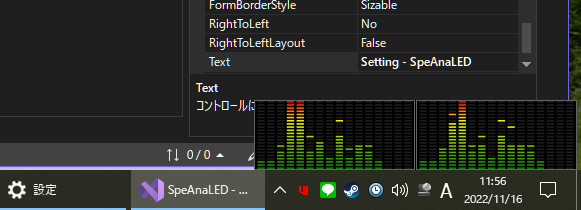
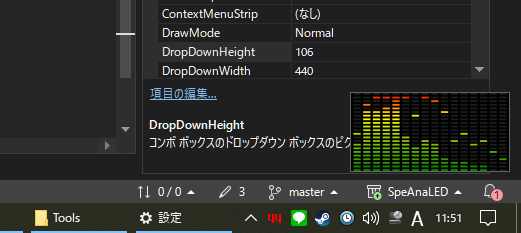
Pre-release. Fixed start-up color scheme, frequency in  mono mode bugs, enbuged in previous clean-up.

diff --git a/SpeAnaLED/Analyzer.cs b/SpeAnaLED/Analyzer.cs
@@ -21,14 +21,14 @@ namespace SpeAnaLED
         public List<byte> _spectrumdata;                // spectrum data buffer
         public readonly DispatcherTimer _timer1;        // timer that refreshes the display
         private BASSData _DATAFLAG;                     // for "interreave" format
-        private readonly  BASSData _DATAFLAG_8192;      // for Hi-Reso
-        private readonly BASSData _DATAFLAG_16384;      // for Hi-Reso
+        private BASSData _DATAFLAG_8192;                // for Hi-Reso
+        private BASSData _DATAFLAG_16384;               // for Hi-Reso
         public int _devicenumber;
         private readonly bool _UNICODE;                 // codepage switch
         public readonly ComboBox _devicelist;           // for subscribe
         private readonly Button _form2EnumButton;       // for subscribe
         private readonly Button _form2DeviceResetButton;// for subscribe
-        private readonly ComboBox _form2NumberOfBars;   // for subscribe
+        private readonly ComboBox _form2NumberOfBarsComboBox;   // for subscribe
         private readonly RadioButton _form2MonoRadio;   // for subscribe
         private readonly Label _form2FreqLabel;
         public event EventHandler SpectrumChanged;      // for fire
@@ -41,15 +41,15 @@ namespace SpeAnaLED
         public int _channel;                            // 1: "mix-data"(mono) 2: L+R
         private int _lines;                             // default number of spectrum lines
 
-        public Analyzer(ComboBox devicelist, Button enumButton, Button deviceResetButton, ComboBox numberofbars, RadioButton monoRadio, Label freqLabel)    // Control data for event subscribe
+        public Analyzer(ComboBox devicelist, Button enumButton, Button deviceResetButton, ComboBox numberOfbarsComboBox, RadioButton monoRadio, Label freqLabel)    // Control data for event subscribe
         {
             _devicelist = devicelist;
             _form2EnumButton = enumButton;
             _form2DeviceResetButton = deviceResetButton;
-            _form2NumberOfBars = numberofbars;
+            _form2NumberOfBarsComboBox = numberOfbarsComboBox;
             _form2MonoRadio = monoRadio;
+            _channel = _form2MonoRadio.Checked ? 1 : 2;
             _form2FreqLabel = freqLabel;
-            _channel = monoRadio.Checked ? 1 : 2;
             _fft = new float[16384 * _channel];
             _initialized = false;
             _process = new WASAPIPROC(Process);
@@ -61,15 +61,15 @@ namespace SpeAnaLED
             _devicenumber = Form1.DeviceNumber();
             _DATAFLAG_8192 = _channel > 1 ? BASSData.BASS_DATA_FFT16384 | BASSData.BASS_DATA_FFT_INDIVIDUAL : BASSData.BASS_DATA_FFT8192;
             _DATAFLAG_16384 = _channel > 1 ? BASSData.BASS_DATA_FFT32768 | BASSData.BASS_DATA_FFT_INDIVIDUAL : BASSData.BASS_DATA_FFT16384;
-            _lines = Convert.ToInt16(_form2NumberOfBars.SelectedItem);
+            _lines = Convert.ToInt16(_form2NumberOfBarsComboBox.SelectedItem);
             _UNICODE = Form1.Unicode();
 
             // Event handler for option form (reseive)
-            //_form2EnumButton.Click += new EventHandler(Form2_EnumerateButton_Clicked);
-            //_form2DeviceResetButton.Click += new EventHandler(Form2_devicelist_SelectedIndexChanged);
-            _form2NumberOfBars.SelectedIndexChanged += new EventHandler(Form2_NumberOfBarIndexChanged);
-            _form2MonoRadio.CheckedChanged += new EventHandler(Form2_MonoRadio_CheckChanged);
+            _form2EnumButton.Click += new EventHandler(Form2_EnumerateButton_Clicked);
+            _form2DeviceResetButton.Click += new EventHandler(Form2_devicelist_SelectedIndexChanged);
             _devicelist.SelectedIndexChanged += new EventHandler(Form2_devicelist_SelectedIndexChanged);
+            _form2NumberOfBarsComboBox.SelectedIndexChanged += new EventHandler(Form2_NumberOfBarIndexChanged);
+            _form2MonoRadio.CheckedChanged += new EventHandler(Form2_MonoRadio_CheckChanged);
 
             Init();
         }
@@ -171,11 +171,11 @@ namespace SpeAnaLED
                 float[] peak = new float[] { 0f, 0f };      // 0=Left(mono), 1=Right
 
                 if (_channel > 1)
-                    freqValue = (int)(Math.Pow(2, (bandX * 10.0 / (_lines - 1)) + _freqShift) * _mixfreqMulti);
+                    freqValue = (int)(Math.Pow(2, (bandX * 10.0 / (_lines - 1)) + _freqShift)  * _mixfreqMulti);
                 else
-                    freqValue = (int)(Math.Pow(2, bandX * 10.0 / (_lines - 1) + _freqShift) / 4 * _mixfreqMulti);   // I don't know why 4...
-
-                if (freqValue <= fftPos) freqValue = fftPos + 1;                                            // if out of range, min. freq. selected
+                    freqValue = (int)(Math.Pow(2, (bandX * 10.0 / (_lines - 1)) + _freqShift) / 5 * _mixfreqMulti);   // I don't know why 5...
+                                                                                                                      // denominator lager -> shift right
+                if (freqValue <= fftPos) freqValue = fftPos + 1;                            // if out of range, min. freq. selected
                 if (_mixfreq > 96000)
                 {
                     if (freqValue > 16384 * _channel - _channel) freqValue = 16384 * _channel - _channel;
@@ -211,12 +211,12 @@ namespace SpeAnaLED
 
         private void Form2_NumberOfBarIndexChanged(object sender, EventArgs e)
         {
-            _lines = Convert.ToInt16(_form2NumberOfBars.SelectedItem);
+            _lines = Convert.ToInt16(_form2NumberOfBarsComboBox.SelectedItem);
         }
 
         private void Form2_EnumerateButton_Clicked(object sender, EventArgs e)
         {
-            _devicelist.Enabled = false;
+            //_devicelist.Enabled = false;      // loop below is too heavey...
             _form2DeviceResetButton.Enabled = false;
             _form2EnumButton.Enabled = false;
 
@@ -251,7 +251,7 @@ namespace SpeAnaLED
 
                 _form2DeviceResetButton.Enabled = false;
                 _form2EnumButton.Enabled = false;
-                _devicelist.Enabled = false;
+                //_devicelist.Enabled = false;
 
                 _initialized = false;
                 Enable = false;
@@ -298,7 +298,11 @@ namespace SpeAnaLED
             _channel = _form2MonoRadio.Checked ? 1 : 2;
             _fft.Initialize();
             _fft = new float[16384 * _channel];
-            _DATAFLAG = _channel > 1 ? _DATAFLAG_16384 : _DATAFLAG_8192;
+
+            //_DATAFLAG = _channel > 1 ? _DATAFLAG_16384 : _DATAFLAG_8192;
+            _DATAFLAG_8192 = _channel > 1 ? BASSData.BASS_DATA_FFT16384 | BASSData.BASS_DATA_FFT_INDIVIDUAL : BASSData.BASS_DATA_FFT8192;
+            _DATAFLAG_16384 = _channel > 1 ? BASSData.BASS_DATA_FFT32768 | BASSData.BASS_DATA_FFT_INDIVIDUAL : BASSData.BASS_DATA_FFT16384;
+            _DATAFLAG = _mixfreq > 96000 ? _DATAFLAG_16384 : _DATAFLAG_8192;
 
             bool result = Bass.BASS_Init(0, _mixfreq, BASSInit.BASS_DEVICE_DEFAULT, IntPtr.Zero);
             if (!result) throw new Exception("Source Device Initialize Error");

diff --git a/SpeAnaLED/Form1.cs b/SpeAnaLED/Form1.cs
@@ -134,7 +134,7 @@ namespace SpeAnaLED
             form2.devicelist.SelectedIndex = 0;
 
             // after param load, make a Analyzer instance.
-            analyzer = new Analyzer(form2.devicelist, form2.EnumerateButton, form2.DeviceResetButton, form2.NumberOfBarComboBox, form2.MonoRadio,form2.FrequencyLabel);
+            analyzer = new Analyzer(form2.devicelist, form2.EnumerateButton, form2.DeviceResetButton, form2.NumberOfBarComboBox, form2.MonoRadio, form2.FrequencyLabel);
 
             if (devices == null || devices == string.Empty)
             {
@@ -149,7 +149,7 @@ namespace SpeAnaLED
             else
             {
                 analyzer.Enable = true;
-                // analyzer.DisplayEnable = true;       // do nothing
+                // analyzer.DisplayEnable = true;       // do nothing in DisplayEnable
             }
 
             // Event handler for modeless option form (subscribe)
@@ -191,21 +191,14 @@ namespace SpeAnaLED
             peakValue = new int[maxNumberOfBar * channel];
             endPointY = baseSpectrumHeight;
             bgPen = new Pen(Color.FromArgb(29, 29, 29), penWidth) { DashPattern = new float[] { 0.1f, 0.1f } };
-            
+
             // default hold time. I don't know why "* cycleMultiplyer * (number..." is necessary. This is due to actual measurements.
             counterCycle = (int)(peakHoldTimeMsec / analyzer._timer1.Interval.Milliseconds * cycleMultiplyer * (numberOfBar * channel / 16.0));
-            
+
             //for (int i = 0; i < channel; i++) canvas[i] = new Bitmap(baseSpectrumWidth, baseSpectrumHeight);
             for (int i = 0; i < maxNumberOfBar; i++) freqLabel_Left[i] = new Label();
             for (int i = 0; i < maxNumberOfBar; i++) freqLabel_Right[i] = new Label();
             
-            // set default color pen
-            colors = prisumColors;
-            positions = prisumPositions[numberOfBar];
-            brush = new LinearGradientBrush(new Point(0, 0), new Point(endPointX, endPointY), Color.FromArgb(255, 0, 0), Color.FromArgb(0, 0, 255))
-                { InterpolationColors = new ColorBlend() { Colors = colors, Positions = positions } };
-            myPen = new Pen(brush, penWidth) { DashPattern = new float[] { 0.1f, 0.1f } };
-
             // form2 setting
             form2.NumberOfBarComboBox.SelectedIndex = form2.NumberOfBarComboBox.Items.IndexOf(numberOfBar.ToString());
             form2.PeakholdTimeComboBox.SelectedIndex = form2.PeakholdTimeComboBox.Items.IndexOf(peakHoldTimeMsec.ToString());
@@ -230,6 +223,7 @@ namespace SpeAnaLED
                 LabelCycle.Visible = true;
             else
                 LabelCycle.Visible = false;
+            
             if ((form2.PrisumRadio.Checked = prisumChecked) == true)
             {
                 colors = prisumColors;
@@ -259,12 +253,15 @@ namespace SpeAnaLED
                 endPointX = barLeftPadding + numberOfBar * ((int)bgPen.Width + barSpacing) - barSpacing;    // Horizontal
                 endPointY = 0;
             }
+            // set Gradient color pen
             if (!form2.RainbowRadio.Checked)
                 brush = new LinearGradientBrush(new Point(0, 0), new Point(endPointX, endPointY), Color.FromArgb(255, 0, 0), Color.FromArgb(0, 0, 255))
                     { InterpolationColors = new ColorBlend() { Colors = colors, Positions = positions } };
             else
                 brush = new LinearGradientBrush(new Point(endPointX, endPointY), new Point(0, 0), Color.FromArgb(255, 0, 0), Color.FromArgb(0, 0, 255))
                     { InterpolationColors = new ColorBlend() { Colors = colors, Positions = positions } };
+            myPen = new Pen(brush, penWidth) { DashPattern = new float[] { 0.1f, 0.1f } };
+
             if (form2.LeftFlipRadio.Checked)
             {
                 flipLeft = RotateFlipType.RotateNoneFlipX;
@@ -981,7 +978,7 @@ namespace SpeAnaLED
             //spectrumHeightScale = (float)Spectrum1.Height / baseSpectrumHeight;
             float labelFontSize = (float)Math.Round(baseLabelFontSize * spectrumWidthScale, 1);
             labelFontSize = labelFontSize < 11f ? labelFontSize : 11f;
-            labelFontSize = labelFontSize > 7f ? labelFontSize : 7f;
+            labelFontSize = labelFontSize > 6f ? labelFontSize : 6f;
 
             for (int i = 0; i < maxNumberOfBar; i++)
             {

diff --git a/SpeAnaLED/Form2.Designer.cs b/SpeAnaLED/Form2.Designer.cs
@@ -191,11 +191,11 @@
             // EnumerateButton
             // 
             this.EnumerateButton.Font = new System.Drawing.Font("Arial", 9F, System.Drawing.FontStyle.Regular, System.Drawing.GraphicsUnit.Point, ((byte)(128)));
-            this.EnumerateButton.Location = new System.Drawing.Point(567, 72);
+            this.EnumerateButton.Location = new System.Drawing.Point(530, 72);
             this.EnumerateButton.Name = "EnumerateButton";
-            this.EnumerateButton.Size = new System.Drawing.Size(75, 23);
+            this.EnumerateButton.Size = new System.Drawing.Size(112, 23);
             this.EnumerateButton.TabIndex = 39;
-            this.EnumerateButton.Text = "Enumerate";
+            this.EnumerateButton.Text = "Enumerate Devices";
             this.EnumerateButton.UseVisualStyleBackColor = true;
             this.EnumerateButton.Click += new System.EventHandler(this.EnumerateButton_Click);
             // 
@@ -267,14 +267,11 @@
             this.PeakholdTimeComboBox.Font = new System.Drawing.Font("Arial", 10F, System.Drawing.FontStyle.Regular, System.Drawing.GraphicsUnit.Point, ((byte)(0)));
             this.PeakholdTimeComboBox.FormattingEnabled = true;
             this.PeakholdTimeComboBox.Items.AddRange(new object[] {
+            "250",
             "500",
             "1000",
             "1500",
-            "2000",
-            "2500",
-            "3000",
-            "3500",
-            "4000"});
+            "2000"});
             this.PeakholdTimeComboBox.Location = new System.Drawing.Point(206, 21);
             this.PeakholdTimeComboBox.Name = "PeakholdTimeComboBox";
             this.PeakholdTimeComboBox.Size = new System.Drawing.Size(58, 24);
@@ -502,6 +499,7 @@
             this.MonoRadio.TabIndex = 33;
             this.MonoRadio.Text = "1: Mono(L+R Mix)";
             this.MonoRadio.UseVisualStyleBackColor = true;
+            this.MonoRadio.CheckedChanged += new System.EventHandler(this.MonoRadio_CheckedChanged);
             // 
             // ShowCounterCheckBox
             // 
@@ -597,11 +595,11 @@
             // 
             // DeviceResetButton
             // 
-            this.DeviceResetButton.Location = new System.Drawing.Point(523, 28);
+            this.DeviceResetButton.Location = new System.Drawing.Point(521, 28);
             this.DeviceResetButton.Name = "DeviceResetButton";
             this.DeviceResetButton.Size = new System.Drawing.Size(90, 23);
             this.DeviceResetButton.TabIndex = 52;
-            this.DeviceResetButton.Text = "Reset";
+            this.DeviceResetButton.Text = "Reload Device";
             this.DeviceResetButton.UseVisualStyleBackColor = true;
             this.DeviceResetButton.Click += new System.EventHandler(this.DeviceResetButton_Click);
             // 

diff --git a/SpeAnaLED/Form2.cs b/SpeAnaLED/Form2.cs
@@ -34,7 +34,7 @@ namespace SpeAnaLED
 
         private void Form2_DoubleClick(object sender, EventArgs e)
         {
-        
+
         }
 
         private void CloseButton_Click(object sender, EventArgs e)
@@ -52,7 +52,7 @@ namespace SpeAnaLED
                 devicelist.SelectedIndex = 0;
             }
         }
-        
+
         private void SensitivityTrackBar_ValueChanged(object sender, EventArgs e)
         {
             SensitivityTextBox.Text = (SensitivityTrackBar.Value / 10f).ToString("0.0");
@@ -110,13 +110,16 @@ namespace SpeAnaLED
 
         private void EnumerateButton_Click(object sender, EventArgs e)
         {
-            devicelist.Enabled = false;
             if (ClearSpectrum != null) ClearSpectrum(this, EventArgs.Empty);
         }
 
         private void DeviceResetButton_Click(object sender, EventArgs e)
         {
-            devicelist.Enabled = true;
+            if (ClearSpectrum != null) ClearSpectrum(this, EventArgs.Empty);
+        }
+
+        private void MonoRadio_CheckedChanged(object sender, EventArgs e)
+        {
             if (ClearSpectrum != null) ClearSpectrum(this, EventArgs.Empty);
         }
     }

diff --git a/README.md b/README.md
@@ -44,8 +44,8 @@
 - You can change form vertical and horizontal size severally. (free aspect-ratio)<br/>
 <img src="./screenshot/screenshot6.png"/>
 
-- So, it can be placed on the desktop in a very small size
-<img src="./screenshot/screenshot8.png" width="280"/>
+- So, it can be placed on the desktop in a very small size<br>
+<img src="./screenshot/screenshot8.png" width="480"/>
   
 
 ## Other features
@@ -74,7 +74,7 @@
   
 
 ## Other precautions
-<p><strong>SpeAnaLED</strong> is simply made to be seen and enjoyed by myself. The frequency displayed is most likely not accurate.</p>
+<p><strong>SpeAnaLED</strong> is simply made to be seen and enjoyed by myself. The values including frequency displayed is most likely not accurate.</p>
 <p>If a problem occurs, first try deleting your configuration file(SpeAnaLED.conf) and restarting <strong>SpeAnaLED</strong>. (After that, enumerate sound device from setting dialog again.)</p>
 <p>Have fun music!</p>
 
@@ -82,3 +82,6 @@
 **SpeAnaLED** itsself, is a [MIT License](./LICENSE.md) software.
 
 Use of each DLL(library) must be in accordance with the respective license.
+  
+## Win32 Executable binaries
+See "Releases" on the right side.
